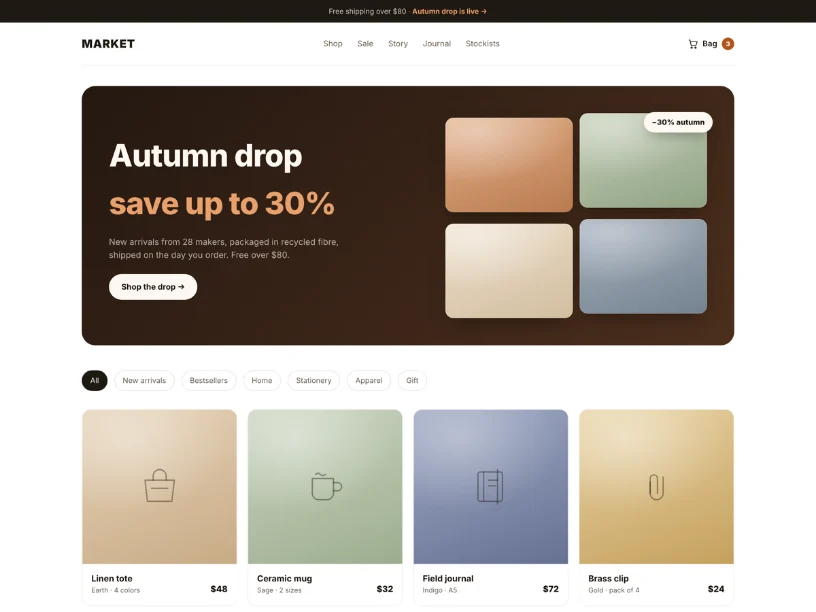
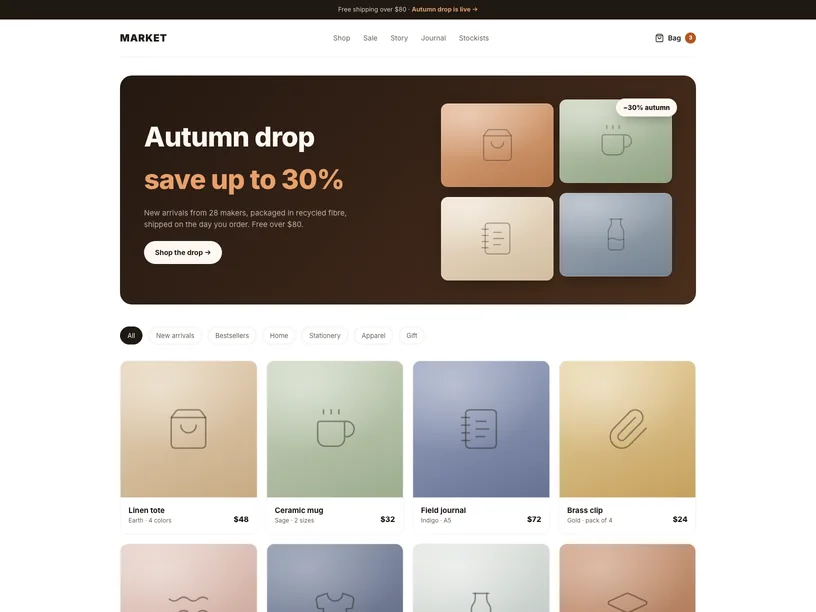
Visual pass: hero star off the astronaut, fuller tiles, honest Market thumb
A page-by-page look at the whole site, fixing the four things that were
actually wrong rather than redecorating.

The hero star sat at z-index 2 — above the illustration, parked on the
astronaut's boot like a sticker — while its own comment said "behind". Behind
turned out to be worse: the art is an opaque box, so all that survived were two
clipped slivers. It is now a 120px accent in the top-right sky, the one spot
that is clear at any width, where it balances the purple headline instead of
colliding with the drawing.

The 52px icon tiles on the home and about pages held 18px icons — a third of
the tile, which read as floaty once the duotone weight landed. They are 22px
now, the size the publish page already used. The Sync view's icon was three
people (left over from when the label said Collaborate); syncing is arrows.

The Market template card still showed the storefront as it looked before its
redesign — the thumbnail is a baked image, so no amount of fixing the page
fixed the preview. Recaptured from the live demo at 2x through the same
headless Chromium the OG card uses, demo chrome cropped off. The other three
thumbnails still match their pages; nothing about them changed above the fold.

diff --git a/index.html b/index.html
@@ -13,7 +13,7 @@
   <link href="https://fonts.googleapis.com/css2?family=Inter:wght@400;500;600;700;800&display=swap" rel="stylesheet" />
   <link rel="preload" as="image" href="assets/images/hero.webp?v=ca6adc2854" type="image/webp" fetchpriority="high" />
 <link rel="stylesheet" href="assets/css/base.css?v=c8980e65cb" />
-  <link rel="stylesheet" href="assets/css/pages.css?v=e7c4d3f0ad" />
+  <link rel="stylesheet" href="assets/css/pages.css?v=615824565c" />
 <link rel="canonical" href="https://blokza.com/" />
 <meta property="og:type" content="website" />
 <meta property="og:url" content="https://blokza.com/" />
@@ -315,28 +315,28 @@
         <div class="grid grid-4" data-reveal-stagger>
           <article class="card stat-card card-hover">
             <div class="row">
-              <span class="icon-tile alt-amber"><svg width="18" height="18" viewBox="0 0 256 256" fill="currentColor" aria-hidden="true"><path d="M215.46,216H40.54C27.92,216,20,202.79,26.13,192.09L113.59,40.22c6.3-11,22.52-11,28.82,0l87.46,151.87C236,202.79,228.08,216,215.46,216Z" opacity="0.2"/><path d="M236.8,188.09,149.35,36.22h0a24.76,24.76,0,0,0-42.7,0L19.2,188.09a23.51,23.51,0,0,0,0,23.72A24.35,24.35,0,0,0,40.55,224h174.9a24.35,24.35,0,0,0,21.33-12.19A23.51,23.51,0,0,0,236.8,188.09ZM222.93,203.8a8.5,8.5,0,0,1-7.48,4.2H40.55a8.5,8.5,0,0,1-7.48-4.2,7.59,7.59,0,0,1,0-7.72L120.52,44.21a8.75,8.75,0,0,1,15,0l87.45,151.87A7.59,7.59,0,0,1,222.93,203.8ZM120,144V104a8,8,0,0,1,16,0v40a8,8,0,0,1-16,0Zm20,36a12,12,0,1,1-12-12A12,12,0,0,1,140,180Z"/></svg></span>
+              <span class="icon-tile alt-amber"><svg width="22" height="22" viewBox="0 0 256 256" fill="currentColor" aria-hidden="true"><path d="M215.46,216H40.54C27.92,216,20,202.79,26.13,192.09L113.59,40.22c6.3-11,22.52-11,28.82,0l87.46,151.87C236,202.79,228.08,216,215.46,216Z" opacity="0.2"/><path d="M236.8,188.09,149.35,36.22h0a24.76,24.76,0,0,0-42.7,0L19.2,188.09a23.51,23.51,0,0,0,0,23.72A24.35,24.35,0,0,0,40.55,224h174.9a24.35,24.35,0,0,0,21.33-12.19A23.51,23.51,0,0,0,236.8,188.09ZM222.93,203.8a8.5,8.5,0,0,1-7.48,4.2H40.55a8.5,8.5,0,0,1-7.48-4.2,7.59,7.59,0,0,1,0-7.72L120.52,44.21a8.75,8.75,0,0,1,15,0l87.45,151.87A7.59,7.59,0,0,1,222.93,203.8ZM120,144V104a8,8,0,0,1,16,0v40a8,8,0,0,1-16,0Zm20,36a12,12,0,1,1-12-12A12,12,0,0,1,140,180Z"/></svg></span>
               <span class="num"><span data-count="72" data-suffix="%">72%</span></span>
             </div>
             <p>of teams ship marketing sites late due to designer / developer handoff friction</p>
           </article>
           <article class="card stat-card card-hover">
             <div class="row">
-              <span class="icon-tile alt-amber"><svg width="18" height="18" viewBox="0 0 256 256" fill="currentColor" aria-hidden="true"><path d="M224,128a96,96,0,1,1-96-96A96,96,0,0,1,224,128Z" opacity="0.2"/><path d="M128,24A104,104,0,1,0,232,128,104.11,104.11,0,0,0,128,24Zm0,192a88,88,0,1,1,88-88A88.1,88.1,0,0,1,128,216Zm64-88a8,8,0,0,1-8,8H128a8,8,0,0,1-8-8V72a8,8,0,0,1,16,0v48h48A8,8,0,0,1,192,128Z"/></svg></span>
+              <span class="icon-tile alt-amber"><svg width="22" height="22" viewBox="0 0 256 256" fill="currentColor" aria-hidden="true"><path d="M224,128a96,96,0,1,1-96-96A96,96,0,0,1,224,128Z" opacity="0.2"/><path d="M128,24A104,104,0,1,0,232,128,104.11,104.11,0,0,0,128,24Zm0,192a88,88,0,1,1,88-88A88.1,88.1,0,0,1,128,216Zm64-88a8,8,0,0,1-8,8H128a8,8,0,0,1-8-8V72a8,8,0,0,1,16,0v48h48A8,8,0,0,1,192,128Z"/></svg></span>
               <span class="num"><span data-count="6" data-suffix="+">6+</span></span>
             </div>
             <p>weeks wasted on engineering work that could have been a visual edit</p>
           </article>
           <article class="card stat-card card-hover">
             <div class="row">
-              <span class="icon-tile alt-rose"><svg width="18" height="18" viewBox="0 0 256 256" fill="currentColor" aria-hidden="true"><path d="M128,56C48,56,16,128,16,128s32,72,112,72,112-72,112-72S208,56,128,56Zm0,112a40,40,0,1,1,40-40A40,40,0,0,1,128,168Z" opacity="0.2"/><path d="M247.31,124.76c-.35-.79-8.82-19.58-27.65-38.41C194.57,61.26,162.88,48,128,48S61.43,61.26,36.34,86.35C17.51,105.18,9,124,8.69,124.76a8,8,0,0,0,0,6.5c.35.79,8.82,19.57,27.65,38.4C61.43,194.74,93.12,208,128,208s66.57-13.26,91.66-38.34c18.83-18.83,27.3-37.61,27.65-38.4A8,8,0,0,0,247.31,124.76ZM128,192c-30.78,0-57.67-11.19-79.93-33.25A133.47,133.47,0,0,1,25,128,133.33,133.33,0,0,1,48.07,97.25C70.33,75.19,97.22,64,128,64s57.67,11.19,79.93,33.25A133.46,133.46,0,0,1,231.05,128C223.84,141.46,192.43,192,128,192Zm0-112a48,48,0,1,0,48,48A48.05,48.05,0,0,0,128,80Zm0,80a32,32,0,1,1,32-32A32,32,0,0,1,128,160Z"/></svg></span>
+              <span class="icon-tile alt-rose"><svg width="22" height="22" viewBox="0 0 256 256" fill="currentColor" aria-hidden="true"><path d="M128,56C48,56,16,128,16,128s32,72,112,72,112-72,112-72S208,56,128,56Zm0,112a40,40,0,1,1,40-40A40,40,0,0,1,128,168Z" opacity="0.2"/><path d="M247.31,124.76c-.35-.79-8.82-19.58-27.65-38.41C194.57,61.26,162.88,48,128,48S61.43,61.26,36.34,86.35C17.51,105.18,9,124,8.69,124.76a8,8,0,0,0,0,6.5c.35.79,8.82,19.57,27.65,38.4C61.43,194.74,93.12,208,128,208s66.57-13.26,91.66-38.34c18.83-18.83,27.3-37.61,27.65-38.4A8,8,0,0,0,247.31,124.76ZM128,192c-30.78,0-57.67-11.19-79.93-33.25A133.47,133.47,0,0,1,25,128,133.33,133.33,0,0,1,48.07,97.25C70.33,75.19,97.22,64,128,64s57.67,11.19,79.93,33.25A133.46,133.46,0,0,1,231.05,128C223.84,141.46,192.43,192,128,192Zm0-112a48,48,0,1,0,48,48A48.05,48.05,0,0,0,128,80Zm0,80a32,32,0,1,1,32-32A32,32,0,0,1,128,160Z"/></svg></span>
               <span class="num"><span data-count="90" data-suffix="%">90%</span></span>
             </div>
             <p>of marketers can't update their own site without filing a developer ticket</p>
           </article>
           <article class="card stat-card card-hover">
             <div class="row">
-              <span class="icon-tile alt-emerald"><svg width="18" height="18" viewBox="0 0 256 256" fill="currentColor" aria-hidden="true"><path d="M232,56v64L168,56Z" opacity="0.2"/><path d="M232,48H168a8,8,0,0,0-5.66,13.66L188.69,88,136,140.69l-34.34-34.35a8,8,0,0,0-11.32,0l-72,72a8,8,0,0,0,11.32,11.32L96,123.31l34.34,34.35a8,8,0,0,0,11.32,0L200,99.31l26.34,26.35A8,8,0,0,0,240,120V56A8,8,0,0,0,232,48Zm-8,52.69L187.31,64H224Z"/></svg></span>
+              <span class="icon-tile alt-emerald"><svg width="22" height="22" viewBox="0 0 256 256" fill="currentColor" aria-hidden="true"><path d="M232,56v64L168,56Z" opacity="0.2"/><path d="M232,48H168a8,8,0,0,0-5.66,13.66L188.69,88,136,140.69l-34.34-34.35a8,8,0,0,0-11.32,0l-72,72a8,8,0,0,0,11.32,11.32L96,123.31l34.34,34.35a8,8,0,0,0,11.32,0L200,99.31l26.34,26.35A8,8,0,0,0,240,120V56A8,8,0,0,0,232,48Zm-8,52.69L187.31,64H224Z"/></svg></span>
               <span class="num"><span data-count="80" data-suffix="%">80%</span></span>
             </div>
             <p>of conversion opportunities missed because pages can't iterate fast enough</p>
@@ -358,7 +358,7 @@
             <button class="tab is-active" data-tab-for="design" type="button">
               <div class="tab__head">
                 <div class="tab__title">
-                  <span class="icon-tile"><svg width="18" height="18" viewBox="0 0 256 256" fill="currentColor" aria-hidden="true"><path d="M224,127.17a96.48,96.48,0,0,1-2.39,22.18A24,24,0,0,1,198.21,168H152a24,24,0,0,0-24,24,24,24,0,0,1-32,22.61C58.73,201.44,32,169.81,32,128a96,96,0,0,1,95-96C179.84,31.47,223.55,74.35,224,127.17Z" opacity="0.2"/><path d="M200.77,53.89A103.27,103.27,0,0,0,128,24h-1.07A104,104,0,0,0,24,128c0,43,26.58,79.06,69.36,94.17A32,32,0,0,0,136,192a16,16,0,0,1,16-16h46.21a31.81,31.81,0,0,0,31.2-24.88,104.43,104.43,0,0,0,2.59-24A103.28,103.28,0,0,0,200.77,53.89Zm13,93.71A15.89,15.89,0,0,1,198.21,160H152a32,32,0,0,0-32,32,16,16,0,0,1-21.31,15.07C62.49,194.3,40,164,40,128a88,88,0,0,1,87.09-88h.9a88.35,88.35,0,0,1,88,87.25A88.86,88.86,0,0,1,213.81,147.6ZM140,76a12,12,0,1,1-12-12A12,12,0,0,1,140,76ZM96,100A12,12,0,1,1,84,88,12,12,0,0,1,96,100Zm0,56a12,12,0,1,1-12-12A12,12,0,0,1,96,156Zm88-56a12,12,0,1,1-12-12A12,12,0,0,1,184,100Z"/></svg></span>
+                  <span class="icon-tile"><svg width="22" height="22" viewBox="0 0 256 256" fill="currentColor" aria-hidden="true"><path d="M224,127.17a96.48,96.48,0,0,1-2.39,22.18A24,24,0,0,1,198.21,168H152a24,24,0,0,0-24,24,24,24,0,0,1-32,22.61C58.73,201.44,32,169.81,32,128a96,96,0,0,1,95-96C179.84,31.47,223.55,74.35,224,127.17Z" opacity="0.2"/><path d="M200.77,53.89A103.27,103.27,0,0,0,128,24h-1.07A104,104,0,0,0,24,128c0,43,26.58,79.06,69.36,94.17A32,32,0,0,0,136,192a16,16,0,0,1,16-16h46.21a31.81,31.81,0,0,0,31.2-24.88,104.43,104.43,0,0,0,2.59-24A103.28,103.28,0,0,0,200.77,53.89Zm13,93.71A15.89,15.89,0,0,1,198.21,160H152a32,32,0,0,0-32,32,16,16,0,0,1-21.31,15.07C62.49,194.3,40,164,40,128a88,88,0,0,1,87.09-88h.9a88.35,88.35,0,0,1,88,87.25A88.86,88.86,0,0,1,213.81,147.6ZM140,76a12,12,0,1,1-12-12A12,12,0,0,1,140,76ZM96,100A12,12,0,1,1,84,88,12,12,0,0,1,96,100Zm0,56a12,12,0,1,1-12-12A12,12,0,0,1,96,156Zm88-56a12,12,0,1,1-12-12A12,12,0,0,1,184,100Z"/></svg></span>
                   <div><h3>Design</h3><p>Visual builder</p></div>
                 </div>
                 <span class="tab__chev"><svg width="14" height="14" viewBox="0 0 24 24" fill="none" stroke="currentColor" stroke-width="2" stroke-linecap="round" stroke-linejoin="round"><path d="m6 9 6 6 6-6" /></svg></span>
@@ -377,7 +377,7 @@
             <button class="tab" data-tab-for="collab" type="button">
               <div class="tab__head">
                 <div class="tab__title">
-                  <span class="icon-tile"><svg width="18" height="18" viewBox="0 0 256 256" fill="currentColor" aria-hidden="true"><path d="M136,108A52,52,0,1,1,84,56,52,52,0,0,1,136,108Z" opacity="0.2"/><path d="M117.25,157.92a60,60,0,1,0-66.5,0A95.83,95.83,0,0,0,3.53,195.63a8,8,0,1,0,13.4,8.74,80,80,0,0,1,134.14,0,8,8,0,0,0,13.4-8.74A95.83,95.83,0,0,0,117.25,157.92ZM40,108a44,44,0,1,1,44,44A44.05,44.05,0,0,1,40,108Zm210.14,98.7a8,8,0,0,1-11.07-2.33A79.83,79.83,0,0,0,172,168a8,8,0,0,1,0-16,44,44,0,1,0-16.34-84.87,8,8,0,1,1-5.94-14.85,60,60,0,0,1,55.53,105.64,95.83,95.83,0,0,1,47.22,37.71A8,8,0,0,1,250.14,206.7Z"/></svg></span>
+                  <span class="icon-tile"><svg width="22" height="22" viewBox="0 0 256 256" fill="currentColor" aria-hidden="true"><path d="M216,128a88,88,0,1,1-88-88A88,88,0,0,1,216,128Z" opacity="0.2"/><path d="M224,48V96a8,8,0,0,1-8,8H168a8,8,0,0,1,0-16h28.69L182.06,73.37a79.56,79.56,0,0,0-56.13-23.43h-.45A79.52,79.52,0,0,0,69.59,72.71,8,8,0,0,1,58.41,61.27a96,96,0,0,1,135,.79L208,76.69V48a8,8,0,0,1,16,0ZM186.41,183.29a80,80,0,0,1-112.47-.66L59.31,168H88a8,8,0,0,0,0-16H40a8,8,0,0,0-8,8v48a8,8,0,0,0,16,0V179.31l14.63,14.63A95.43,95.43,0,0,0,130,222.06h.53a95.36,95.36,0,0,0,67.07-27.33,8,8,0,0,0-11.18-11.44Z"/></svg></span>
                   <div><h3>Sync</h3><p>Your sites on any device</p></div>
                 </div>
                 <span class="tab__chev"><svg width="14" height="14" viewBox="0 0 24 24" fill="none" stroke="currentColor" stroke-width="2" stroke-linecap="round" stroke-linejoin="round"><path d="m6 9 6 6 6-6" /></svg></span>
@@ -395,7 +395,7 @@
             <button class="tab" data-tab-for="publish" type="button">
               <div class="tab__head">
                 <div class="tab__title">
-                  <span class="icon-tile"><svg width="18" height="18" viewBox="0 0 256 256" fill="currentColor" aria-hidden="true"><path d="M240,128a80,80,0,0,1-80,80H72A56,56,0,1,1,85.92,97.74l0,.1A80,80,0,0,1,240,128Z" opacity="0.2"/><path d="M178.34,165.66,160,147.31V208a8,8,0,0,1-16,0V147.31l-18.34,18.35a8,8,0,0,1-11.32-11.32l32-32a8,8,0,0,1,11.32,0l32,32a8,8,0,0,1-11.32,11.32ZM160,40A88.08,88.08,0,0,0,81.29,88.68,64,64,0,1,0,72,216h40a8,8,0,0,0,0-16H72a48,48,0,0,1,0-96c1.1,0,2.2,0,3.29.12A88,88,0,0,0,72,128a8,8,0,0,0,16,0,72,72,0,1,1,100.8,66,8,8,0,0,0,3.2,15.34,7.9,7.9,0,0,0,3.2-.68A88,88,0,0,0,160,40Z"/></svg></span>
+                  <span class="icon-tile"><svg width="22" height="22" viewBox="0 0 256 256" fill="currentColor" aria-hidden="true"><path d="M240,128a80,80,0,0,1-80,80H72A56,56,0,1,1,85.92,97.74l0,.1A80,80,0,0,1,240,128Z" opacity="0.2"/><path d="M178.34,165.66,160,147.31V208a8,8,0,0,1-16,0V147.31l-18.34,18.35a8,8,0,0,1-11.32-11.32l32-32a8,8,0,0,1,11.32,0l32,32a8,8,0,0,1-11.32,11.32ZM160,40A88.08,88.08,0,0,0,81.29,88.68,64,64,0,1,0,72,216h40a8,8,0,0,0,0-16H72a48,48,0,0,1,0-96c1.1,0,2.2,0,3.29.12A88,88,0,0,0,72,128a8,8,0,0,0,16,0,72,72,0,1,1,100.8,66,8,8,0,0,0,3.2,15.34,7.9,7.9,0,0,0,3.2-.68A88,88,0,0,0,160,40Z"/></svg></span>
                   <div><h3>Publish</h3><p>One-click ship</p></div>
                 </div>
                 <span class="tab__chev"><svg width="14" height="14" viewBox="0 0 24 24" fill="none" stroke="currentColor" stroke-width="2" stroke-linecap="round" stroke-linejoin="round"><path d="m6 9 6 6 6-6" /></svg></span>
@@ -408,7 +408,7 @@
             <button class="tab" data-tab-for="extend" type="button">
               <div class="tab__head">
                 <div class="tab__title">
-                  <span class="icon-tile"><svg width="18" height="18" viewBox="0 0 256 256" fill="currentColor" aria-hidden="true"><path d="M240,128l-48,40H64L16,128,64,88H192Z" opacity="0.2"/><path d="M69.12,94.15,28.5,128l40.62,33.85a8,8,0,1,1-10.24,12.29l-48-40a8,8,0,0,1,0-12.29l48-40a8,8,0,0,1,10.24,12.3Zm176,27.7-48-40a8,8,0,1,0-10.24,12.3L227.5,128l-40.62,33.85a8,8,0,1,0,10.24,12.29l48-40a8,8,0,0,0,0-12.29ZM162.73,32.48a8,8,0,0,0-10.25,4.79l-64,176a8,8,0,0,0,4.79,10.26A8.14,8.14,0,0,0,96,224a8,8,0,0,0,7.52-5.27l64-176A8,8,0,0,0,162.73,32.48Z"/></svg></span>
+                  <span class="icon-tile"><svg width="22" height="22" viewBox="0 0 256 256" fill="currentColor" aria-hidden="true"><path d="M240,128l-48,40H64L16,128,64,88H192Z" opacity="0.2"/><path d="M69.12,94.15,28.5,128l40.62,33.85a8,8,0,1,1-10.24,12.29l-48-40a8,8,0,0,1,0-12.29l48-40a8,8,0,0,1,10.24,12.3Zm176,27.7-48-40a8,8,0,1,0-10.24,12.3L227.5,128l-40.62,33.85a8,8,0,1,0,10.24,12.29l48-40a8,8,0,0,0,0-12.29ZM162.73,32.48a8,8,0,0,0-10.25,4.79l-64,176a8,8,0,0,0,4.79,10.26A8.14,8.14,0,0,0,96,224a8,8,0,0,0,7.52-5.27l64-176A8,8,0,0,0,162.73,32.48Z"/></svg></span>
                   <div><h3>Extend</h3><p>Custom code</p></div>
                 </div>
                 <span class="tab__chev"><svg width="14" height="14" viewBox="0 0 24 24" fill="none" stroke="currentColor" stroke-width="2" stroke-linecap="round" stroke-linejoin="round"><path d="m6 9 6 6 6-6" /></svg></span>
@@ -616,7 +616,7 @@
           <!-- ============ 4. Market / E-commerce ============ -->
           <a class="template-card" href="demo-market.html">
             <div class="template-thumb">
-              <img src="assets/images/templates/market.webp?v=b03989a0d7" width="816" height="612"
+              <img src="assets/images/templates/market.webp?v=34d4f457e2" width="816" height="612"
                    alt="The Market template: a online store built in BLOKZA."
                    loading="lazy" decoding="async">
             </div>

diff --git a/about.html b/about.html
@@ -23,7 +23,7 @@
 <link rel="preconnect" href="https://fonts.gstatic.com" crossorigin />
 <link href="https://fonts.googleapis.com/css2?family=Inter:wght@400;500;600;700;800&display=swap" rel="stylesheet" />
 <link rel="stylesheet" href="assets/css/base.css?v=c8980e65cb" />
-<link rel="stylesheet" href="assets/css/pages.css?v=e7c4d3f0ad" />
+<link rel="stylesheet" href="assets/css/pages.css?v=615824565c" />
 </head>
 <body>
 <a href="#main" class="skip-link">Skip to content</a>
@@ -236,28 +236,28 @@
       <div class="grid grid-2 mt-5" data-reveal-stagger>
         <article class="card card-hover" style="padding:24px 26px;">
           <span class="icon-tile" style="margin-bottom:14px;">
-            <svg width="18" height="18" viewBox="0 0 256 256" fill="currentColor" aria-hidden="true"><path d="M232,128c0,12.51-17.82,21.95-22.68,33.69-4.68,11.32,1.42,30.65-7.78,39.85s-28.53,3.1-39.85,7.78C150,214.18,140.5,232,128,232s-22-17.82-33.69-22.68c-11.32-4.68-30.65,1.42-39.85-7.78s-3.1-28.53-7.78-39.85C41.82,150,24,140.5,24,128s17.82-22,22.68-33.69C51.36,83,45.26,63.66,54.46,54.46S83,51.36,94.31,46.68C106.05,41.82,115.5,24,128,24S150,41.82,161.69,46.68c11.32,4.68,30.65-1.42,39.85,7.78s3.1,28.53,7.78,39.85C214.18,106.05,232,115.5,232,128Z" opacity="0.2"/><path d="M225.86,102.82c-3.77-3.94-7.67-8-9.14-11.57-1.36-3.27-1.44-8.69-1.52-13.94-.15-9.76-.31-20.82-8-28.51s-18.75-7.85-28.51-8c-5.25-.08-10.67-.16-13.94-1.52-3.56-1.47-7.63-5.37-11.57-9.14C146.28,23.51,138.44,16,128,16s-18.27,7.51-25.18,14.14c-3.94,3.77-8,7.67-11.57,9.14C88,40.64,82.56,40.72,77.31,40.8c-9.76.15-20.82.31-28.51,8S41,67.55,40.8,77.31c-.08,5.25-.16,10.67-1.52,13.94-1.47,3.56-5.37,7.63-9.14,11.57C23.51,109.72,16,117.56,16,128s7.51,18.27,14.14,25.18c3.77,3.94,7.67,8,9.14,11.57,1.36,3.27,1.44,8.69,1.52,13.94.15,9.76.31,20.82,8,28.51s18.75,7.85,28.51,8c5.25.08,10.67.16,13.94,1.52,3.56,1.47,7.63,5.37,11.57,9.14C109.72,232.49,117.56,240,128,240s18.27-7.51,25.18-14.14c3.94-3.77,8-7.67,11.57-9.14,3.27-1.36,8.69-1.44,13.94-1.52,9.76-.15,20.82-.31,28.51-8s7.85-18.75,8-28.51c.08-5.25.16-10.67,1.52-13.94,1.47-3.56,5.37-7.63,9.14-11.57C232.49,146.28,240,138.44,240,128S232.49,109.73,225.86,102.82Zm-11.55,39.29c-4.79,5-9.75,10.17-12.38,16.52-2.52,6.1-2.63,13.07-2.73,19.82-.1,7-.21,14.33-3.32,17.43s-10.39,3.22-17.43,3.32c-6.75.1-13.72.21-19.82,2.73-6.35,2.63-11.52,7.59-16.52,12.38S132,224,128,224s-9.15-4.92-14.11-9.69-10.17-9.75-16.52-12.38c-6.1-2.52-13.07-2.63-19.82-2.73-7-.1-14.33-.21-17.43-3.32s-3.22-10.39-3.32-17.43c-.1-6.75-.21-13.72-2.73-19.82-2.63-6.35-7.59-11.52-12.38-16.52S32,132,32,128s4.92-9.15,9.69-14.11,9.75-10.17,12.38-16.52c2.52-6.1,2.63-13.07,2.73-19.82.1-7,.21-14.33,3.32-17.43S70.51,56.9,77.55,56.8c6.75-.1,13.72-.21,19.82-2.73,6.35-2.63,11.52-7.59,16.52-12.38S124,32,128,32s9.15,4.92,14.11,9.69,10.17,9.75,16.52,12.38c6.1,2.52,13.07,2.63,19.82,2.73,7,.1,14.33.21,17.43,3.32s3.22,10.39,3.32,17.43c.1,6.75.21,13.72,2.73,19.82,2.63,6.35,7.59,11.52,12.38,16.52S224,124,224,128,219.08,137.15,214.31,142.11ZM173.66,98.34a8,8,0,0,1,0,11.32l-56,56a8,8,0,0,1-11.32,0l-24-24a8,8,0,0,1,11.32-11.32L112,148.69l50.34-50.35A8,8,0,0,1,173.66,98.34Z"/></svg>
+            <svg width="22" height="22" viewBox="0 0 256 256" fill="currentColor" aria-hidden="true"><path d="M232,128c0,12.51-17.82,21.95-22.68,33.69-4.68,11.32,1.42,30.65-7.78,39.85s-28.53,3.1-39.85,7.78C150,214.18,140.5,232,128,232s-22-17.82-33.69-22.68c-11.32-4.68-30.65,1.42-39.85-7.78s-3.1-28.53-7.78-39.85C41.82,150,24,140.5,24,128s17.82-22,22.68-33.69C51.36,83,45.26,63.66,54.46,54.46S83,51.36,94.31,46.68C106.05,41.82,115.5,24,128,24S150,41.82,161.69,46.68c11.32,4.68,30.65-1.42,39.85,7.78s3.1,28.53,7.78,39.85C214.18,106.05,232,115.5,232,128Z" opacity="0.2"/><path d="M225.86,102.82c-3.77-3.94-7.67-8-9.14-11.57-1.36-3.27-1.44-8.69-1.52-13.94-.15-9.76-.31-20.82-8-28.51s-18.75-7.85-28.51-8c-5.25-.08-10.67-.16-13.94-1.52-3.56-1.47-7.63-5.37-11.57-9.14C146.28,23.51,138.44,16,128,16s-18.27,7.51-25.18,14.14c-3.94,3.77-8,7.67-11.57,9.14C88,40.64,82.56,40.72,77.31,40.8c-9.76.15-20.82.31-28.51,8S41,67.55,40.8,77.31c-.08,5.25-.16,10.67-1.52,13.94-1.47,3.56-5.37,7.63-9.14,11.57C23.51,109.72,16,117.56,16,128s7.51,18.27,14.14,25.18c3.77,3.94,7.67,8,9.14,11.57,1.36,3.27,1.44,8.69,1.52,13.94.15,9.76.31,20.82,8,28.51s18.75,7.85,28.51,8c5.25.08,10.67.16,13.94,1.52,3.56,1.47,7.63,5.37,11.57,9.14C109.72,232.49,117.56,240,128,240s18.27-7.51,25.18-14.14c3.94-3.77,8-7.67,11.57-9.14,3.27-1.36,8.69-1.44,13.94-1.52,9.76-.15,20.82-.31,28.51-8s7.85-18.75,8-28.51c.08-5.25.16-10.67,1.52-13.94,1.47-3.56,5.37-7.63,9.14-11.57C232.49,146.28,240,138.44,240,128S232.49,109.73,225.86,102.82Zm-11.55,39.29c-4.79,5-9.75,10.17-12.38,16.52-2.52,6.1-2.63,13.07-2.73,19.82-.1,7-.21,14.33-3.32,17.43s-10.39,3.22-17.43,3.32c-6.75.1-13.72.21-19.82,2.73-6.35,2.63-11.52,7.59-16.52,12.38S132,224,128,224s-9.15-4.92-14.11-9.69-10.17-9.75-16.52-12.38c-6.1-2.52-13.07-2.63-19.82-2.73-7-.1-14.33-.21-17.43-3.32s-3.22-10.39-3.32-17.43c-.1-6.75-.21-13.72-2.73-19.82-2.63-6.35-7.59-11.52-12.38-16.52S32,132,32,128s4.92-9.15,9.69-14.11,9.75-10.17,12.38-16.52c2.52-6.1,2.63-13.07,2.73-19.82.1-7,.21-14.33,3.32-17.43S70.51,56.9,77.55,56.8c6.75-.1,13.72-.21,19.82-2.73,6.35-2.63,11.52-7.59,16.52-12.38S124,32,128,32s9.15,4.92,14.11,9.69,10.17,9.75,16.52,12.38c6.1,2.52,13.07,2.63,19.82,2.73,7,.1,14.33.21,17.43,3.32s3.22,10.39,3.32,17.43c.1,6.75.21,13.72,2.73,19.82,2.63,6.35,7.59,11.52,12.38,16.52S224,124,224,128,219.08,137.15,214.31,142.11ZM173.66,98.34a8,8,0,0,1,0,11.32l-56,56a8,8,0,0,1-11.32,0l-24-24a8,8,0,0,1,11.32-11.32L112,148.69l50.34-50.35A8,8,0,0,1,173.66,98.34Z"/></svg>
           </span>
           <h3 style="font-size:17px;margin:0 0 6px;">Simplicity over complexity.</h3>
           <p class="text-muted" style="font-size:14px;line-height:1.6;">Every feature has to earn its place. If it makes the product harder to understand, it doesn't ship.</p>
         </article>
         <article class="card card-hover" style="padding:24px 26px;">
           <span class="icon-tile" style="margin-bottom:14px;">
-            <svg width="18" height="18" viewBox="0 0 256 256" fill="currentColor" aria-hidden="true"><path d="M216,128a88,88,0,1,1-88-88A88,88,0,0,1,216,128Z" opacity="0.2"/><path d="M224,48V96a8,8,0,0,1-8,8H168a8,8,0,0,1,0-16h28.69L182.06,73.37a79.56,79.56,0,0,0-56.13-23.43h-.45A79.52,79.52,0,0,0,69.59,72.71,8,8,0,0,1,58.41,61.27a96,96,0,0,1,135,.79L208,76.69V48a8,8,0,0,1,16,0ZM186.41,183.29a80,80,0,0,1-112.47-.66L59.31,168H88a8,8,0,0,0,0-16H40a8,8,0,0,0-8,8v48a8,8,0,0,0,16,0V179.31l14.63,14.63A95.43,95.43,0,0,0,130,222.06h.53a95.36,95.36,0,0,0,67.07-27.33,8,8,0,0,0-11.18-11.44Z"/></svg>
+            <svg width="22" height="22" viewBox="0 0 256 256" fill="currentColor" aria-hidden="true"><path d="M216,128a88,88,0,1,1-88-88A88,88,0,0,1,216,128Z" opacity="0.2"/><path d="M224,48V96a8,8,0,0,1-8,8H168a8,8,0,0,1,0-16h28.69L182.06,73.37a79.56,79.56,0,0,0-56.13-23.43h-.45A79.52,79.52,0,0,0,69.59,72.71,8,8,0,0,1,58.41,61.27a96,96,0,0,1,135,.79L208,76.69V48a8,8,0,0,1,16,0ZM186.41,183.29a80,80,0,0,1-112.47-.66L59.31,168H88a8,8,0,0,0,0-16H40a8,8,0,0,0-8,8v48a8,8,0,0,0,16,0V179.31l14.63,14.63A95.43,95.43,0,0,0,130,222.06h.53a95.36,95.36,0,0,0,67.07-27.33,8,8,0,0,0-11.18-11.44Z"/></svg>
           </span>
           <h3 style="font-size:17px;margin:0 0 6px;">Fast iteration on feedback.</h3>
           <p class="text-muted" style="font-size:14px;line-height:1.6;">We'd rather ship something small today and improve it from real usage than polish in private for months.</p>
         </article>
         <article class="card card-hover" style="padding:24px 26px;">
           <span class="icon-tile" style="margin-bottom:14px;">
-            <svg width="18" height="18" viewBox="0 0 256 256" fill="currentColor" aria-hidden="true"><path d="M216,56v56c0,96-88,120-88,120S40,208,40,112V56a8,8,0,0,1,8-8H208A8,8,0,0,1,216,56Z" opacity="0.2"/><path d="M208,40H48A16,16,0,0,0,32,56v56c0,52.72,25.52,84.67,46.93,102.19,23.06,18.86,46,25.26,47,25.53a8,8,0,0,0,4.2,0c1-.27,23.91-6.67,47-25.53C198.48,196.67,224,164.72,224,112V56A16,16,0,0,0,208,40Zm0,72c0,37.07-13.66,67.16-40.6,89.42A129.3,129.3,0,0,1,128,223.62a128.25,128.25,0,0,1-38.92-21.81C61.82,179.51,48,149.3,48,112l0-56,160,0ZM82.34,141.66a8,8,0,0,1,11.32-11.32L112,148.69l50.34-50.35a8,8,0,0,1,11.32,11.32l-56,56a8,8,0,0,1-11.32,0Z"/></svg>
+            <svg width="22" height="22" viewBox="0 0 256 256" fill="currentColor" aria-hidden="true"><path d="M216,56v56c0,96-88,120-88,120S40,208,40,112V56a8,8,0,0,1,8-8H208A8,8,0,0,1,216,56Z" opacity="0.2"/><path d="M208,40H48A16,16,0,0,0,32,56v56c0,52.72,25.52,84.67,46.93,102.19,23.06,18.86,46,25.26,47,25.53a8,8,0,0,0,4.2,0c1-.27,23.91-6.67,47-25.53C198.48,196.67,224,164.72,224,112V56A16,16,0,0,0,208,40Zm0,72c0,37.07-13.66,67.16-40.6,89.42A129.3,129.3,0,0,1,128,223.62a128.25,128.25,0,0,1-38.92-21.81C61.82,179.51,48,149.3,48,112l0-56,160,0ZM82.34,141.66a8,8,0,0,1,11.32-11.32L112,148.69l50.34-50.35a8,8,0,0,1,11.32,11.32l-56,56a8,8,0,0,1-11.32,0Z"/></svg>
           </span>
           <h3 style="font-size:17px;margin:0 0 6px;">Your site, your control.</h3>
           <p class="text-muted" style="font-size:14px;line-height:1.6;">Templates get you started, but you stay in charge. Nothing important is locked away or out of reach.</p>
         </article>
         <article class="card card-hover" style="padding:24px 26px;">
           <span class="icon-tile" style="margin-bottom:14px;">
-            <svg width="18" height="18" viewBox="0 0 256 256" fill="currentColor" aria-hidden="true"><path d="M138.54,149.46C106.62,96.25,149.18,43.05,239.63,48.37,245,138.82,191.75,181.39,138.54,149.46ZM16.26,88.26c-3.8,64.61,34.21,95,72.21,72.21C111.27,122.47,80.87,84.46,16.26,88.26Z" opacity="0.2"/><path d="M247.63,47.89a8,8,0,0,0-7.52-7.52c-51.76-3-93.32,12.74-111.18,42.22-11.8,19.48-11.78,43.16-.16,65.74a71.37,71.37,0,0,0-14.17,26.95L98.33,159c7.82-16.33,7.52-33.36-1-47.49C84.09,89.73,53.62,78,15.79,80.27a8,8,0,0,0-7.52,7.52c-2.23,37.83,9.46,68.3,31.25,81.5A45.82,45.82,0,0,0,63.44,176,54.58,54.58,0,0,0,87,170.33l25,25V224a8,8,0,0,0,16,0V194.51a55.61,55.61,0,0,1,12.27-35,73.91,73.91,0,0,0,33.31,8.4,60.9,60.9,0,0,0,31.83-8.86C234.89,141.21,250.67,99.65,247.63,47.89ZM86.06,146.74l-24.41-24.4a8,8,0,0,0-11.31,11.31l24.41,24.41c-9.61,3.18-18.93,2.39-26.94-2.46C32.47,146.31,23.79,124.32,24,96c28.31-.25,50.31,8.47,59.6,23.81C88.45,127.82,89.24,137.14,86.06,146.74Zm111.06-1.36c-13.4,8.11-29.15,8.73-45.15,2l53.69-53.7a8,8,0,0,0-11.31-11.32L140.65,136c-6.76-16-6.15-31.76,2-45.15,13.94-23,47-35.8,89.33-34.83C232.94,98.34,220.14,131.44,197.12,145.38Z"/></svg>
+            <svg width="22" height="22" viewBox="0 0 256 256" fill="currentColor" aria-hidden="true"><path d="M138.54,149.46C106.62,96.25,149.18,43.05,239.63,48.37,245,138.82,191.75,181.39,138.54,149.46ZM16.26,88.26c-3.8,64.61,34.21,95,72.21,72.21C111.27,122.47,80.87,84.46,16.26,88.26Z" opacity="0.2"/><path d="M247.63,47.89a8,8,0,0,0-7.52-7.52c-51.76-3-93.32,12.74-111.18,42.22-11.8,19.48-11.78,43.16-.16,65.74a71.37,71.37,0,0,0-14.17,26.95L98.33,159c7.82-16.33,7.52-33.36-1-47.49C84.09,89.73,53.62,78,15.79,80.27a8,8,0,0,0-7.52,7.52c-2.23,37.83,9.46,68.3,31.25,81.5A45.82,45.82,0,0,0,63.44,176,54.58,54.58,0,0,0,87,170.33l25,25V224a8,8,0,0,0,16,0V194.51a55.61,55.61,0,0,1,12.27-35,73.91,73.91,0,0,0,33.31,8.4,60.9,60.9,0,0,0,31.83-8.86C234.89,141.21,250.67,99.65,247.63,47.89ZM86.06,146.74l-24.41-24.4a8,8,0,0,0-11.31,11.31l24.41,24.41c-9.61,3.18-18.93,2.39-26.94-2.46C32.47,146.31,23.79,124.32,24,96c28.31-.25,50.31,8.47,59.6,23.81C88.45,127.82,89.24,137.14,86.06,146.74Zm111.06-1.36c-13.4,8.11-29.15,8.73-45.15,2l53.69-53.7a8,8,0,0,0-11.31-11.32L140.65,136c-6.76-16-6.15-31.76,2-45.15,13.94-23,47-35.8,89.33-34.83C232.94,98.34,220.14,131.44,197.12,145.38Z"/></svg>
           </span>
           <h3 style="font-size:17px;margin:0 0 6px;">Sustainable over trendy.</h3>
           <p class="text-muted" style="font-size:14px;line-height:1.6;">We build for the long term, not for whatever happens to be loud this quarter.</p>

diff --git a/templates.html b/templates.html
@@ -12,7 +12,7 @@
 <link rel="preconnect" href="https://fonts.gstatic.com" crossorigin />
 <link href="https://fonts.googleapis.com/css2?family=Inter:wght@400;500;600;700;800&display=swap" rel="stylesheet" />
 <link rel="stylesheet" href="assets/css/base.css?v=c8980e65cb" />
-<link rel="stylesheet" href="assets/css/pages.css?v=e7c4d3f0ad" />
+<link rel="stylesheet" href="assets/css/pages.css?v=615824565c" />
 <link rel="canonical" href="https://blokza.com/templates.html" />
 <meta property="og:type" content="website" />
 <meta property="og:url" content="https://blokza.com/templates.html" />
@@ -163,7 +163,7 @@
 <div class="template-meta"><div><div class="cat">SaaS</div><h2 class="template-meta__name">Stack</h2></div><span class="arrow"><svg width="14" height="14" viewBox="0 0 24 24" fill="none" stroke="currentColor" stroke-width="2.2" stroke-linecap="round" stroke-linejoin="round"><path d="M5 12h14" /> <path d="m12 5 7 7-7 7" /></svg></span></div>
 </a>
     <a class="card template-card card-hover" href="demo-market.html">
-<div class="template-thumb"><img src="assets/images/templates/market.webp?v=b03989a0d7" alt="Market template preview" width="816" height="612" loading="lazy" /></div>
+<div class="template-thumb"><img src="assets/images/templates/market.webp?v=34d4f457e2" alt="Market template preview" width="816" height="612" loading="lazy" /></div>
 <div class="template-meta"><div><div class="cat">E-commerce</div><h2 class="template-meta__name">Market</h2></div><span class="arrow"><svg width="14" height="14" viewBox="0 0 24 24" fill="none" stroke="currentColor" stroke-width="2.2" stroke-linecap="round" stroke-linejoin="round"><path d="M5 12h14" /> <path d="m12 5 7 7-7 7" /></svg></span></div>
 </a>
   </div>

diff --git a/assets/css/pages.css b/assets/css/pages.css
@@ -13,13 +13,18 @@
 }
 .hero > * { position: relative; z-index: 1; }
 
-/* Decorative purple star behind the headline */
+/* Decorative purple star in the hero's top-right corner.
+   It used to be 220px at mid-height, which parked it on the astronaut's boot;
+   sending it behind the art hid all but two clipped slivers, because the
+   illustration is an opaque box. The empty sky above the planet is the one
+   spot that is reliably clear at any width, and a smaller star reads as an
+   accent there rather than a sticker. */
 .hero__star {
   position: absolute;
-  top: 50%;
-  right: 5%;
-  width: 220px;
-  height: 220px;
+  top: 9%;
+  right: 2.5%;
+  width: 120px;
+  height: 120px;
   z-index: 2;
   pointer-events: none;
   opacity: 0.85;

diff --git a/404.html b/404.html
@@ -12,7 +12,7 @@
   <link rel="preconnect" href="https://fonts.gstatic.com" crossorigin />
   <link href="https://fonts.googleapis.com/css2?family=Inter:wght@400;500;600;700;800&display=swap" rel="stylesheet" />
   <link rel="stylesheet" href="assets/css/base.css?v=c8980e65cb" />
-  <link rel="stylesheet" href="assets/css/pages.css?v=e7c4d3f0ad" />
+  <link rel="stylesheet" href="assets/css/pages.css?v=615824565c" />
   <style>
     .nf { min-height: 70vh; display: grid; place-items: center; text-align: center; padding: 64px 24px; }
     .nf__code { font-size: clamp(6rem, 10vw, 12rem); font-weight: 800; letter-spacing: -0.05em; line-height: 1; color: var(--p-700); margin-bottom: 8px; }

diff --git a/changelog.html b/changelog.html
@@ -12,7 +12,7 @@
 <link rel="preconnect" href="https://fonts.gstatic.com" crossorigin />
 <link href="https://fonts.googleapis.com/css2?family=Inter:wght@400;500;600;700;800&display=swap" rel="stylesheet" />
 <link rel="stylesheet" href="assets/css/base.css?v=c8980e65cb" />
-<link rel="stylesheet" href="assets/css/pages.css?v=e7c4d3f0ad" />
+<link rel="stylesheet" href="assets/css/pages.css?v=615824565c" />
 <link rel="canonical" href="https://blokza.com/changelog.html" />
 <meta property="og:type" content="website" />
 <meta property="og:url" content="https://blokza.com/changelog.html" />

diff --git a/security.html b/security.html
@@ -12,7 +12,7 @@
 <link rel="preconnect" href="https://fonts.gstatic.com" crossorigin />
 <link href="https://fonts.googleapis.com/css2?family=Inter:wght@400;500;600;700;800&display=swap" rel="stylesheet" />
 <link rel="stylesheet" href="assets/css/base.css?v=c8980e65cb" />
-<link rel="stylesheet" href="assets/css/pages.css?v=e7c4d3f0ad" />
+<link rel="stylesheet" href="assets/css/pages.css?v=615824565c" />
 <link rel="canonical" href="https://blokza.com/security.html" />
 <meta property="og:type" content="website" />
 <meta property="og:url" content="https://blokza.com/security.html" />

diff --git a/careers.html b/careers.html
@@ -12,7 +12,7 @@
 <link rel="preconnect" href="https://fonts.gstatic.com" crossorigin />
 <link href="https://fonts.googleapis.com/css2?family=Inter:wght@400;500;600;700;800&display=swap" rel="stylesheet" />
 <link rel="stylesheet" href="assets/css/base.css?v=c8980e65cb" />
-<link rel="stylesheet" href="assets/css/pages.css?v=e7c4d3f0ad" />
+<link rel="stylesheet" href="assets/css/pages.css?v=615824565c" />
 <link rel="canonical" href="https://blokza.com/careers.html" />
 <meta property="og:type" content="website" />
 <meta property="og:url" content="https://blokza.com/careers.html" />

diff --git a/contact.html b/contact.html
@@ -12,7 +12,7 @@
 <link rel="preconnect" href="https://fonts.gstatic.com" crossorigin />
 <link href="https://fonts.googleapis.com/css2?family=Inter:wght@400;500;600;700;800&display=swap" rel="stylesheet" />
 <link rel="stylesheet" href="assets/css/base.css?v=c8980e65cb" />
-<link rel="stylesheet" href="assets/css/pages.css?v=e7c4d3f0ad" />
+<link rel="stylesheet" href="assets/css/pages.css?v=615824565c" />
 <link rel="canonical" href="https://blokza.com/contact.html" />
 <meta property="og:type" content="website" />
 <meta property="og:url" content="https://blokza.com/contact.html" />

diff --git a/pricing.html b/pricing.html
@@ -12,7 +12,7 @@
 <link rel="preconnect" href="https://fonts.gstatic.com" crossorigin />
 <link href="https://fonts.googleapis.com/css2?family=Inter:wght@400;500;600;700;800&display=swap" rel="stylesheet" />
 <link rel="stylesheet" href="assets/css/base.css?v=c8980e65cb" />
-<link rel="stylesheet" href="assets/css/pages.css?v=e7c4d3f0ad" />
+<link rel="stylesheet" href="assets/css/pages.css?v=615824565c" />
 <link rel="canonical" href="https://blokza.com/pricing.html" />
 <meta property="og:type" content="website" />
 <meta property="og:url" content="https://blokza.com/pricing.html" />

diff --git a/privacy.html b/privacy.html
@@ -12,7 +12,7 @@
 <link rel="preconnect" href="https://fonts.gstatic.com" crossorigin />
 <link href="https://fonts.googleapis.com/css2?family=Inter:wght@400;500;600;700;800&display=swap" rel="stylesheet" />
 <link rel="stylesheet" href="assets/css/base.css?v=c8980e65cb" />
-<link rel="stylesheet" href="assets/css/pages.css?v=e7c4d3f0ad" />
+<link rel="stylesheet" href="assets/css/pages.css?v=615824565c" />
 <link rel="canonical" href="https://blokza.com/privacy.html" />
 <meta property="og:type" content="website" />
 <meta property="og:url" content="https://blokza.com/privacy.html" />

diff --git a/support.html b/support.html
@@ -12,7 +12,7 @@
 <link rel="preconnect" href="https://fonts.gstatic.com" crossorigin />
 <link href="https://fonts.googleapis.com/css2?family=Inter:wght@400;500;600;700;800&display=swap" rel="stylesheet" />
 <link rel="stylesheet" href="assets/css/base.css?v=c8980e65cb" />
-<link rel="stylesheet" href="assets/css/pages.css?v=e7c4d3f0ad" />
+<link rel="stylesheet" href="assets/css/pages.css?v=615824565c" />
 <link rel="canonical" href="https://blokza.com/support.html" />
 <meta property="og:type" content="website" />
 <meta property="og:url" content="https://blokza.com/support.html" />
